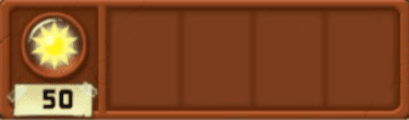
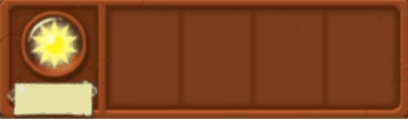
added sun

diff --git a/Inventory.java b/Inventory.java
@@ -20,6 +20,7 @@ public class Inventory{
     int mouseY;
     boolean isHolding = false;
     GamePanel game;
+    Message sunAmount = new Message(27+56,  87+23, 50, 50, "50", 30);
 
     Inventory(GamePanel gme){
         game = gme;
@@ -38,6 +39,10 @@ public class Inventory{
             System.out.println("Error loading image files. Please check all files are saved properly.");
         }
     }
+    public void move(){
+        sunAmount.setMessage(game.getSun()+"");
+    }
+
     public void mouseMoved(MouseEvent e){
         mouseX = e.getX();
         mouseY = e.getY();
@@ -90,6 +95,7 @@ public class Inventory{
             case 2:
                 if(Grid.isInGame(mouseX, mouseY)){
                     game.plantPeashooter(mouseX,mouseY);
+                    game.changeSun(-100);
                 }
                 selectedState = 0;
                 break;
@@ -110,6 +116,7 @@ public class Inventory{
             g.drawImage(peashooterSeedSlot,56+181,8, null);
             g.drawImage(potatoMineSeedSlot,56+253,8, null);
             g.drawImage(walnutSeedSlot,56+325,8, null);
+            sunAmount.draw(g);
         }
     }
 }

diff --git a/GamePanel.java b/GamePanel.java
@@ -168,6 +168,7 @@ public class GamePanel extends JLayeredPane implements Runnable, KeyListener, Mo
                     peashooter.move();
                 }
             }
+            inventory.move();
         }
     }
 
@@ -365,6 +366,12 @@ public class GamePanel extends JLayeredPane implements Runnable, KeyListener, Mo
         zombieList.remove(z);
     }
 
+    public void changeSun(int s){
+        sunCount +=s;
+    }
+    public int getSun(){
+        return sunCount;
+    }
     public void mousePressed(MouseEvent e) {
         Sound.playSingleSound("Sounds\\Select Click V.2 - Sound Effect (HD).wav - Made with Clipchamp.wav", 0);
     }
